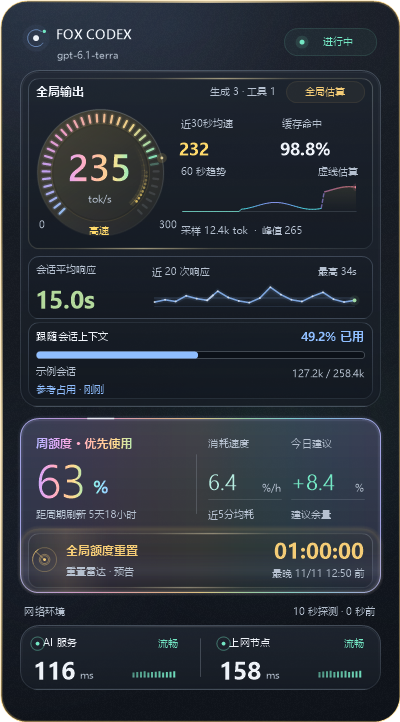
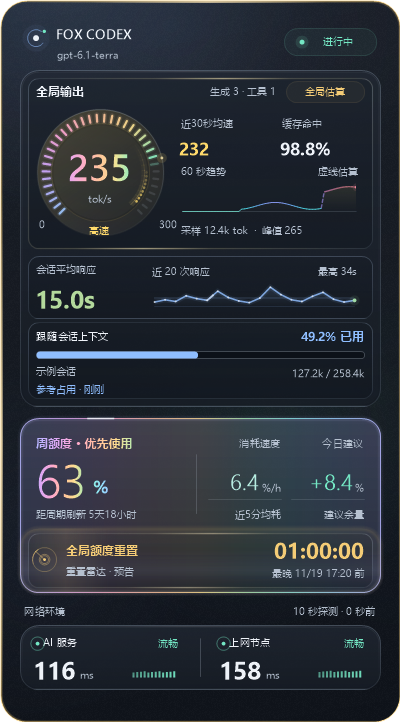
Show radar retry times, pace shared requests and refresh the HUD showcase

Changed region(s): [[0.51, 0.6094, 0.93, 0.7313]]

diff --git a/CornerDisplay.cs b/CornerDisplay.cs
@@ -1139,7 +1139,7 @@ namespace CodexTokenHud
                     cornerMicroFont.FontFamily.GetEmHeight(cornerMicroFont.Style);
                 MovingText(g, transition, value, font, tone,
                     new RectangleF(bounds.X, baseline - ascent, bounds.Width - unitWidth - 3, font.GetHeight(g)),
-                    StringAlignment.Near, key);
+                    StringAlignment.Far, key);
                 CornerText(g, unit, cornerMicroFont, unitTone,
                     new RectangleF(bounds.Right - unitWidth, baseline - unitAscent, unitWidth + 2, cornerMicroFont.GetHeight(g)), false);
             }
@@ -1149,9 +1149,9 @@ namespace CodexTokenHud
         {
             Color paceTone = !quotaPace.Rate.HasValue || quotaPace.Cached ? Muted : Mix(Mint, Ink, .55);
             if (quotaToday.OverBudget) PaintTodayDebtSurface(g, clock);
-            CornerText(g, "消耗速度", cornerSmallFont, Muted, new RectangleF(PaceTile.X, 432, PaceTile.Width, 22), false);
+            CornerText(g, "消耗速度", cornerSmallFont, Muted, new RectangleF(PaceTile.X, 432, PaceTile.Width, 22), true);
             CornerText(g, quotaToday.OverBudget ? "今日超额" : "今日建议", cornerSmallFont, Muted,
-                new RectangleF(AdviceTile.X, 432, AdviceTile.Width, 22), false);
+                new RectangleF(AdviceTile.X, 432, AdviceTile.Width, 22), true);
             QuotaMetric(g, paceDigits, quotaPace.Value, "%/h", PaceTile, paceTone, Muted,
                 "quota-pace:" + quotaPace.Key + ":" + quotaPace.State);
             string advice = quotaToday.Remaining.HasValue ? quotaToday.Text.TrimEnd('%') : "—";
@@ -1165,11 +1165,11 @@ namespace CodexTokenHud
                 g.DrawLine(rule, PaceTile.Left, 499, PaceTile.Right, 499);
                 if (!quotaToday.OverBudget) g.DrawLine(rule, AdviceTile.Left, 499, AdviceTile.Right, 499);
             }
-            CornerText(g, quotaPace.Hint, cornerMicroFont, Muted, new RectangleF(PaceTile.X, 506, PaceTile.Width, 17), false);
+            CornerText(g, quotaPace.Hint, cornerMicroFont, Muted, new RectangleF(PaceTile.X, 506, PaceTile.Width, 17), true);
             CornerText(g, !quotaToday.Remaining.HasValue ? "等待同步" : quotaToday.Cached ? "上次采样" :
                 quotaToday.OverBudget ? "超出建议" : quotaToday.Remaining == 0 ? "建议已用完" : "建议余量",
                 cornerMicroFont, quotaToday.OverBudget ? DebtMetal : Muted,
-                new RectangleF(AdviceTile.X, 506, AdviceTile.Width, 17), false);
+                new RectangleF(AdviceTile.X, 506, AdviceTile.Width, 17), true);
         }
 
         private Color QuotaRunwayTone()

diff --git a/tests/ContextLayoutTests.cs b/tests/ContextLayoutTests.cs
@@ -74,7 +74,7 @@ class ContextLayoutTests
                 {"network_latency",new Dictionary<string,object>{{"state","ok"},{"updated_at_ms",now},
                     {"nodes",new object[]{Fixture("Node","ai",116,now),Fixture("Node","general",158,now)}}}}};
             Set(h,"data",data); Set(h,"previewMotionClock",10000.0); Call(h,"UpdateMetrics");
-            var output=Path.Combine(root,"build","corner55-review");Directory.CreateDirectory(output);
+            var output=Path.Combine(root,"build","corner56-review");Directory.CreateDirectory(output);
             if (args.Length > 2 && args[2] == "showcase")
             {
                 data["binding_mode"]="follow"; Set(h,"manualBindingId",null);
@@ -88,7 +88,10 @@ class ContextLayoutTests
                 Call(h,"UpdateMetrics");using(var a=Frame(h,11000)) a.Save(Path.Combine(output,"global.png"));
                 Json.Object(radar,"upcoming")["id"]="demo-banked"; Json.Object(radar,"upcoming")["reset_type"]="banked";
                 Call(h,"UpdateMetrics");using(var a=Frame(h,12000)) a.Save(Path.Combine(output,"banked.png"));
-                radar["upcoming"]=null; Call(h,"UpdateMetrics");
+                radar["state"]="limited"; radar["next_check_at_ms"]=now+600000; radar["upcoming"]=null;
+                Call(h,"UpdateMetrics");using(var a=Frame(h,12500)) {}
+                using(var a=Frame(h,13000)) a.Save(Path.Combine(output,"limited.png"));
+                radar["state"]="ok"; radar.Remove("next_check_at_ms"); Call(h,"UpdateMetrics");
                 var frames=Path.Combine(output,"frames"); Directory.CreateDirectory(frames);
                 for(int i=0;i<80;i++)
                 {

diff --git a/tests/ResetRadarDisplayTests.cs b/tests/ResetRadarDisplayTests.cs
@@ -130,6 +130,17 @@ class ResetRadarDisplayTests
             Check(display.State == state && !display.Alert && !display.UpcomingStartMs.HasValue && display.Detail == "周重置 6天22时",
                 state + " disables old public schedule but can retain independently fresh official week");
         }
+        data = Fixture();
+        var limited = Json.Object(data, "reset_radar");
+        limited["state"] = "limited";
+        limited["next_check_at_ms"] = Now + 300000;
+        display = Read(data);
+        Check(display.CalendarLabel.StartsWith("下次检查 ") && !display.HasSignal && !display.CountingDown &&
+            !display.Alert, "shared-source cooldown is labeled as a retry, separate from weekly reset");
+        limited["next_check_at_ms"] = Now;
+        Check(Read(data).CalendarLabel == "正在重新检查", "elapsed cooldown does not promise a reset");
+        limited["next_check_at_ms"] = null;
+        Check(Read(data).CalendarLabel == "稍后自动重试", "unknown retry time is not fabricated");
         foreach (string field in new[] {"fetched_at_ms", "source_updated_at_ms"})
         {
             data = Fixture(); Upcoming(data, "exact", Now + 60000, null);

diff --git a/tests/test_reset_radar.py b/tests/test_reset_radar.py
@@ -334,6 +334,19 @@ class RequestTests(unittest.TestCase):
         self.assertEqual(calls.count(radar.STATUS_PATH), 20)
         self.assertEqual(calls.count(radar.META_PATH), 5)
 
+    def test_low_shared_budget_slows_next_poll_but_still_validates_the_signal(self):
+        for remaining, expected in (("5", 600), ("1", 600), ("6", 180), ("unknown", 180)):
+            with self.subTest(remaining=remaining):
+                calls = []
+                def request(path):
+                    calls.append(path)
+                    return (status(scheduled()) if path == radar.STATUS_PATH else meta()), {"x-ratelimit-remaining": remaining}
+                with patch.object(radar.time, "time", return_value=NOW / 1000):
+                    result = radar._fetch_round(request)
+                self.assertEqual(calls, [radar.STATUS_PATH, radar.META_PATH])
+                self.assertEqual(result.snapshot["state"], "ok")
+                self.assertEqual(result.snapshot["next_check_at_ms"], NOW + expected * 1000)
+
     def test_last_budget_slot_can_use_fresh_matching_cached_metadata(self):
         cache = radar._MetadataCache()
         calls, clock, exhausted = [], [NOW], [False]

diff --git a/ResetRadarDisplay.cs b/ResetRadarDisplay.cs
@@ -173,7 +173,15 @@ namespace CodexTokenHud
             if (state == "loading" || radar == null)
             { result.State = "loading"; result.Countdown = "正在同步"; reason = "等待公开排期"; }
             else if (state == "limited")
-            { result.State = "limited"; result.Countdown = "请求受限"; reason = "稍后自动重试"; }
+            {
+                result.State = "limited";
+                result.Countdown = "公共源限流";
+                double? retry = Number(radar, "next_check_at_ms");
+                reason = !Timestamp(retry) ? "稍后自动重试" : retry.Value <= nowMs ? "正在重新检查" :
+                    "下次检查 " + LocalDate(retry.Value).ToString(
+                        LocalDate(retry.Value).Date == LocalDate(nowMs).Date ? "HH:mm:ss" : "MM/dd HH:mm", CultureInfo.InvariantCulture);
+                result.CalendarLabel = reason;
+            }
             else if (state == "unavailable")
             { result.State = "unavailable"; result.Countdown = "暂时离线"; reason = "公开排期暂不可用"; }
             else if (state == "stale" || !Fresh(Number(radar, "fetched_at_ms"), nowMs, 900000) ||

diff --git a/reset_radar.py b/reset_radar.py
@@ -96,6 +96,15 @@ def _budget_wait(headers: dict, now_ms: float) -> float:
     return max(MIN_REFRESH_SECONDS, (reset - now_ms) / 1000) if reset else 3600
 
 
+def _poll_wait(headers: dict, now_ms: float) -> float:
+    # Leave the last few shared slots for other clients. A 200 stays usable.
+    try:
+        remaining = int(headers.get("x-ratelimit-remaining", "-1"))
+    except (TypeError, ValueError):
+        remaining = -1
+    return 600 if 1 <= remaining <= 5 else _budget_wait(headers, now_ms)
+
+
 def _https_proxy() -> str | None:
     """Honor HTTPS proxy/bypass settings, including the Windows system proxy.
 
@@ -368,7 +377,7 @@ def _fetch_round(request=None, cache: _MetadataCache | None = None) -> _Round:
         else:
             metadata, headers = request(META_PATH)
             now_ms = time.time() * 1000
-            wait = _budget_wait(headers, now_ms)
+        wait = _poll_wait(headers, now_ms)
         result = normalize_status(status, metadata, now_ms)
         if cache is not None and metadata is not meta and result["state"] == "ok":
             # Keep only public freshness metadata and the fields used by this HUD.

diff --git a/README.md b/README.md
@@ -2,20 +2,20 @@
 
 一张轻量的 Windows 桌面悬浮面板，把 Codex 的全局输出、当前会话上下文、账户周额度、重置雷达和两条网络线路放在一起。
 
-**当前源码版本：1.3.0-beta.8.corner.55** · [现有发行版](https://github.com/cupfox-coud/FOX-CODEX-HUD/releases) · [功能图鉴](docs/SHOWCASE.md) · [中文使用说明](README.zh-CN.md)
+**当前源码版本：1.3.0-beta.8.corner.56** · [现有发行版](https://github.com/cupfox-coud/FOX-CODEX-HUD/releases) · [功能图鉴](docs/SHOWCASE.md) · [中文使用说明](README.zh-CN.md)
 
-<p align="center"><img src="docs/images/fox-hud-realtime.gif" width="320" alt="模拟多任务输出从 42 加速到 235 tok/s，仪表与周额度虹彩动态变化"></p>
+![Windows 主面板。右侧为原生界面，依次展示全局输出与上下文、周额度与雷达、双线路延迟。](docs/images/fox-hud-overview.png)
 
-<p align="center">原生界面演示 · 模拟数据，不包含真实会话或账户信息</p>
+[观看输出加速动效](docs/images/fox-hud-realtime.gif) · [查看原尺寸主界面](docs/images/fox-hud.png)
 
-## 一眼看懂当前状态
+## 重置雷达怎么看
 
-| 日常监测 | 全局额度重置 | 重置卡发放 |
+| 全局额度重置 | 重置卡发放 | 公共源限流 |
 | --- | --- | --- |
-| <img src="docs/images/fox-hud.png" width="240" alt="全局输出、会话上下文、周额度与双线路监测"> | <img src="docs/images/fox-hud-alert.png" width="240" alt="全局额度重置预告，额度区域联动提醒"> | <img src="docs/images/fox-hud-card-grant.png" width="240" alt="重置卡发放预告，明确不自动重置额度"> |
-| 输出、响应、上下文与额度分组展示。 | 确认属于全局额度重置时，才提示优先使用。 | 紫色发卡提示保留倒计时，不催促提前用完额度。 |
+| <img src="docs/images/fox-hud-alert.png" width="240" alt="全局额度重置预告及截止倒计时"> | <img src="docs/images/fox-hud-card-grant.png" width="240" alt="发卡预告，标有不自动重置额度"> | <img src="docs/images/fox-hud-limited.png" width="240" alt="公共源限流及下次自动检查的本地时间"> |
+| 看预告倒计时，安排剩余额度。 | 到时查看重置卡，周额度照常使用。 | 看「下次检查」时间，面板会自动重试。 |
 
-截图由当前原生绘制器和人工构造的样本生成。更多状态与动效说明见 [功能图鉴](docs/SHOWCASE.md)。
+截图均由当前 Windows 原生面板使用模拟数据绘制。
 
 ## 功能
 
@@ -28,13 +28,13 @@
 
 ## 下载与安装
 
-从 [GitHub Releases](https://github.com/cupfox-coud/FOX-CODEX-HUD/releases) 查看可用的预构建包和 SHA-256 校验文件，发行版版本可能落后于本页源码。需要 Windows 10/11 与 .NET Framework 4.x；预构建包自带 Python。若发行版尚无 corner.55，可用仓库源码和下方的 `Package.ps1` 构建；构建环境需要 Python。
+从 [GitHub Releases](https://github.com/cupfox-coud/FOX-CODEX-HUD/releases) 查看可用的预构建包和 SHA-256 校验文件，发行版版本可能落后于本页源码。需要 Windows 10/11 与 .NET Framework 4.x；预构建包自带 Python。若发行版尚无 corner.56，可用仓库源码和下方的 `Package.ps1` 构建；构建环境需要 Python。
 
 将完整包解压到固定目录（推荐 `%LOCALAPPDATA%\Programs\FOX-CODEX-HUD`），运行 `Install.ps1`。桌面快捷方式、开始菜单和登录启动指向同一个安装目录；详细步骤与排障见 [Windows 安装说明](docs/INSTALLATION.md)。右键托盘可调整动效、屏幕、透明度及会话绑定。
 
 ## 数据与限制
 
-雷达使用 [Did Codex Reset 公共 API](https://didcodexreset.com/zh/api.html)。状态每 3 分钟检查一次；信号不变时复用已验证的来源时间，约 12–15 分钟复核一次，常态约 25 次请求 / 小时。信号变化时会额外复核。该站对同一出口 IP 的所有客户端共享每小时 60 次限制；受限时遵守服务端的重试时间，不能保证共享出口一定有剩余额度。
+雷达使用 [Did Codex Reset 公共 API](https://didcodexreset.com/zh/api.html)。状态每 3 分钟检查一次；信号不变时复用已验证的来源时间，约 12–15 分钟复核一次，常态约 25 次请求 / 小时。信号变化时会额外复核。共享预算剩下 1–5 次时，下一轮自动检查延至 10 分钟后。该站对同一出口 IP 的所有客户端共享每小时 60 次限制；受限时遵守服务端的重试时间，不能保证共享出口一定有剩余额度。
 
 账户额度来自已登录 Codex 客户端；上下文和速度来自本地日志。公共雷达不接收账户、凭据或对话内容；双线路探测会访问公开的连接测试地址。具体数据处理、限制和本机保存内容见 [隐私说明](PRIVACY.md)。
 

diff --git a/README.zh-CN.md b/README.zh-CN.md
@@ -1,6 +1,6 @@
 # FOX CODEX HUD · 中文使用说明
 
-当前 Windows 卡片版本 **1.3.0-beta.8.corner.55**。项目独立维护，与 OpenAI 无隶属关系。[返回首页](README.md) · [下载与发行版](https://github.com/cupfox-coud/FOX-CODEX-HUD/releases) · [图文功能图鉴](docs/SHOWCASE.md)
+当前 Windows 卡片版本 **1.3.0-beta.8.corner.56**。项目独立维护，与 OpenAI 无隶属关系。[返回首页](README.md) · [下载与发行版](https://github.com/cupfox-coud/FOX-CODEX-HUD/releases) · [图文功能图鉴](docs/SHOWCASE.md)
 
 ## Windows 角落卡片
 
@@ -14,7 +14,7 @@
 
 周额度每 30 秒通过已登录客户端的官方账户接口核对，本地新额度快照可即时更新。近期消耗速度以最多 5 分钟内余额下降计算，单位 `%/h`；至少观察 1 分钟，采样不足或过期不会伪造 0。今日建议按本地自然日及官方周期重置重建，超额用负数显示；它是建议而非服务限制。详见 [额度说明](docs/QUOTA_RUNWAY.md)。
 
-公共雷达每 3 分钟检查状态；信号没有变化时使用已验证的新鲜度时间，约 12–15 分钟复核；信号变化会立即复核。常态约 25 次请求 / 小时（变化较多时更多），同一出口 IP 与其他客户端共享服务商的每小时 60 次限额。遇到限制会按服务端时间退避，重启不会跳过已知限流等待；不保证共享出口一定有剩余配额。未知、过期或不匹配的来源不产生行动建议。来源：[Did Codex Reset API](https://didcodexreset.com/zh/api.html)。
+公共雷达每 3 分钟检查状态；信号没有变化时使用已验证的新鲜度时间，约 12–15 分钟复核；信号变化会立即复核。常态约 25 次请求 / 小时（变化较多时更多），同一出口 IP 与其他客户端共享服务商的每小时 60 次限额。共享预算剩余 1–5 次时，下轮检查延至 10 分钟后。限流时雷达显示下次检查的本地时间，按服务端时间退避，重启不会跳过已知限流等待；不保证共享出口一定有剩余配额。未知、过期或不匹配的来源不产生行动建议。来源：[Did Codex Reset API](https://didcodexreset.com/zh/api.html)。
 
 当前会话跟随、同名会话处理与 70% / 85% 提醒详见 [上下文说明](docs/CONTEXT.md)；速率与动态表现详见 [速度说明](docs/SPEED.md)。主界面和运行数据见 [隐私说明](PRIVACY.md)。
 
@@ -46,7 +46,7 @@ python3 app_follow.py --disable
 
 `--run` 后的程序和参数原样传递，不修改 Codex、编辑器或 shell 配置。它和 `--client-executable` 为新增/改名客户端提供入口，但不会把不兼容的日志变成兼容格式。离线日志、历史导出和纯云端任务没有可跟随的本地客户端进程；离线兼容日志继续手动查看，纯云端记录仍不可测。
 
-**上游基础版本：1.3.0-beta.8；本仓库 Windows 卡片版本：1.3.0-beta.8.corner.55。** 独立开源项目，与 OpenAI 无隶属关系。只读本地日志，不改动 Codex 安装，不上传聊天内容。
+**上游基础版本：1.3.0-beta.8；本仓库 Windows 卡片版本：1.3.0-beta.8.corner.56。** 独立开源项目，与 OpenAI 无隶属关系。只读本地日志，不改动 Codex 安装，不上传聊天内容。
 
 ![Windows 状态栏](docs/images/hud.png)
 

diff --git a/docs/SHOWCASE.md b/docs/SHOWCASE.md
@@ -1,6 +1,6 @@
 # FOX CODEX HUD · 功能图鉴
 
-当前 Windows 版本：**1.3.0-beta.8.corner.55**。所有截图与动图均由原生面板使用人工构造的数据生成；时间、会话、额度和速度仅供演示。
+当前 Windows 版本：**1.3.0-beta.8.corner.56**。所有截图与动图均由原生面板使用人工构造的数据生成；时间、会话、额度和速度仅供演示。
 
 ## 输出速度与额度虹彩
 
@@ -17,6 +17,12 @@
 
 公共公告不能证明个人额度到账；实际余额以账户接口为准。
 
+## 公共源限流
+
+<img src="images/fox-hud-limited.png" width="320" alt="模拟限流状态，雷达在公共源限流下方显示下次检查时间">
+
+「下次检查」采用本机时间，表示面板再次查询公共源的时刻。等待期间仍可查看账户周额度，面板会在允许重试后重新核验公告。
+
 ## 读数说明
 
 - **上下文**：最近一次请求的输入与该模型上下文窗口之比；70% 和 85% 是交接提醒阈值。
@@ -27,6 +33,6 @@
 
 ## 生成截图
 
-在 Windows、已安装 Python 的开发环境运行 `.\TestContextLayout.ps1 -Showcase`，输出位于 `build/corner55-review/`，内容全部来自源码中的人工样本。动图由这些原生渲染帧导出。静态偏好和内存保护保留信息并减少装饰动效。
+在 Windows、已安装 Python 的开发环境运行 `.\TestContextLayout.ps1 -Showcase`，输出位于 `build/corner56-review/`，内容全部来自源码中的人工样本。动图由这些原生渲染帧导出。静态偏好和内存保护保留信息并减少装饰动效。
 
 [返回首页](../README.md) · [固定安装](INSTALLATION.md) · [上下文说明](CONTEXT.md) · [额度说明](QUOTA_RUNWAY.md)

diff --git a/docs/RELEASE_NOTES.md b/docs/RELEASE_NOTES.md
@@ -1,11 +1,7 @@
-# FOX CODEX HUD · corner.55
+# FOX CODEX HUD · corner.56
 
-更新公共重置雷达的请求策略：保持每 3 分钟查询状态，信号未变时复用已验证的来源时间，并定期复核；信号变化、来源过期或缺失时重新核验。共享出口的限流仍以服务端规则为准，重启不跳过已知的限流等待。
+公共 API 报告共享额度剩余 1–5 次时，面板将下一轮查询延至 10 分钟后。限流期间，雷达以本机时间显示下次检查时间。全局重置和发卡仍各自显示对应预告。
 
-包含 corner.49–54 的全局多任务输出、会话上下文与 70% / 85% 交接提醒、跟随会话、额度消耗速度与今日建议、原有分组边界以及局部柔和加速扫光。全局重置和发卡继续分开提醒。
+![Windows 主面板，模拟数据](https://raw.githubusercontent.com/cupfox-coud/FOX-CODEX-HUD/main/docs/images/fox-hud-overview.png)
 
-![原生界面模拟动画](https://raw.githubusercontent.com/cupfox-coud/FOX-CODEX-HUD/main/docs/images/fox-hud-realtime.gif)
-
-[查看模拟截图与功能说明](https://github.com/cupfox-coud/FOX-CODEX-HUD/blob/main/docs/SHOWCASE.md)
-
-发布后，Windows x64 用户可下载 `FOX-CODEX-HUD-1.3.0-beta.8.corner.55-win-x64.zip` 与 SHA-256 校验文件。完整解压到固定目录后运行 `Install.ps1`，包内已包含 Python。公共重置信号不代表个人额度已经到账。
+[查看雷达状态与原生动效](https://github.com/cupfox-coud/FOX-CODEX-HUD/blob/main/docs/SHOWCASE.md)

diff --git a/CHANGELOG.md b/CHANGELOG.md
@@ -1,5 +1,9 @@
 # Changelog
 
+## FOX CODEX HUD 1.3.0-beta.8.corner.56
+
+Slow public radar polling when only 1–5 requests remain on the shared IP. Show the local time of the next check during a cooldown. Align quota readings with their units in the two-column layout. Refresh the homepage with native Windows screenshots of the main panel, quota reset, card grant and rate limit.
+
 ## FOX CODEX HUD 1.3.0-beta.8.corner.55
 
 Keep the three-minute public reset status checks while reusing verified snapshot
